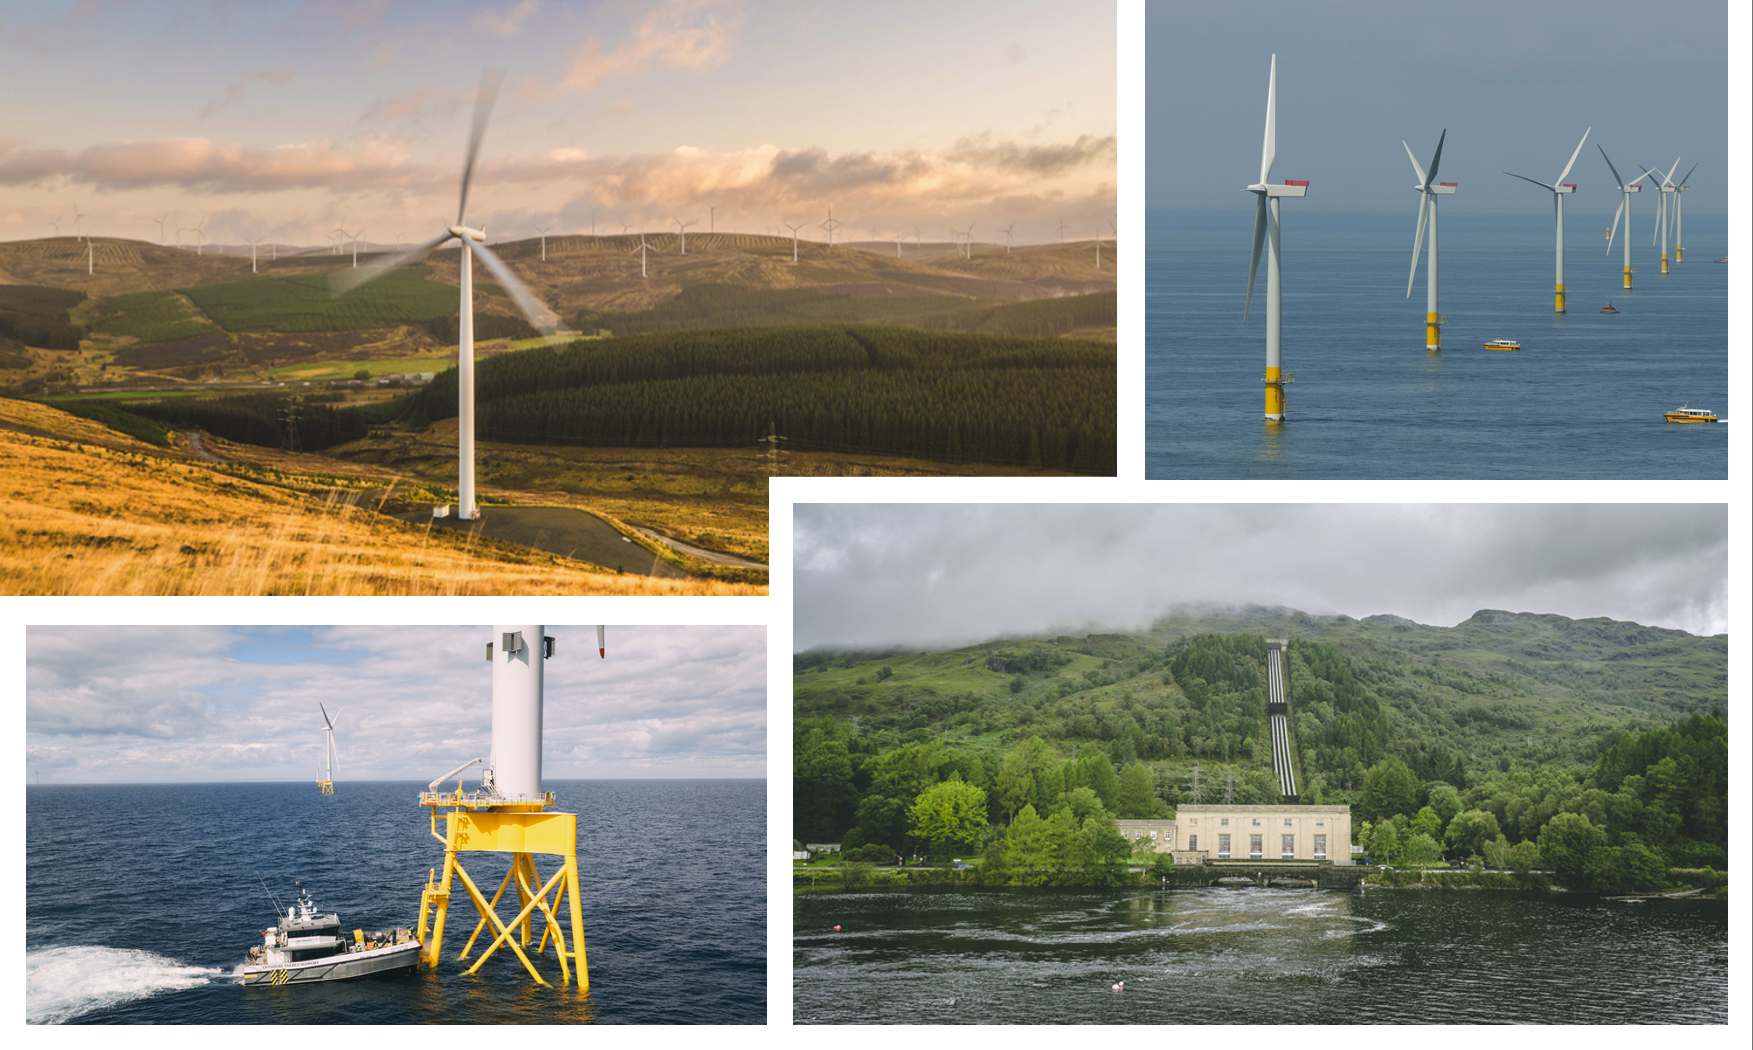
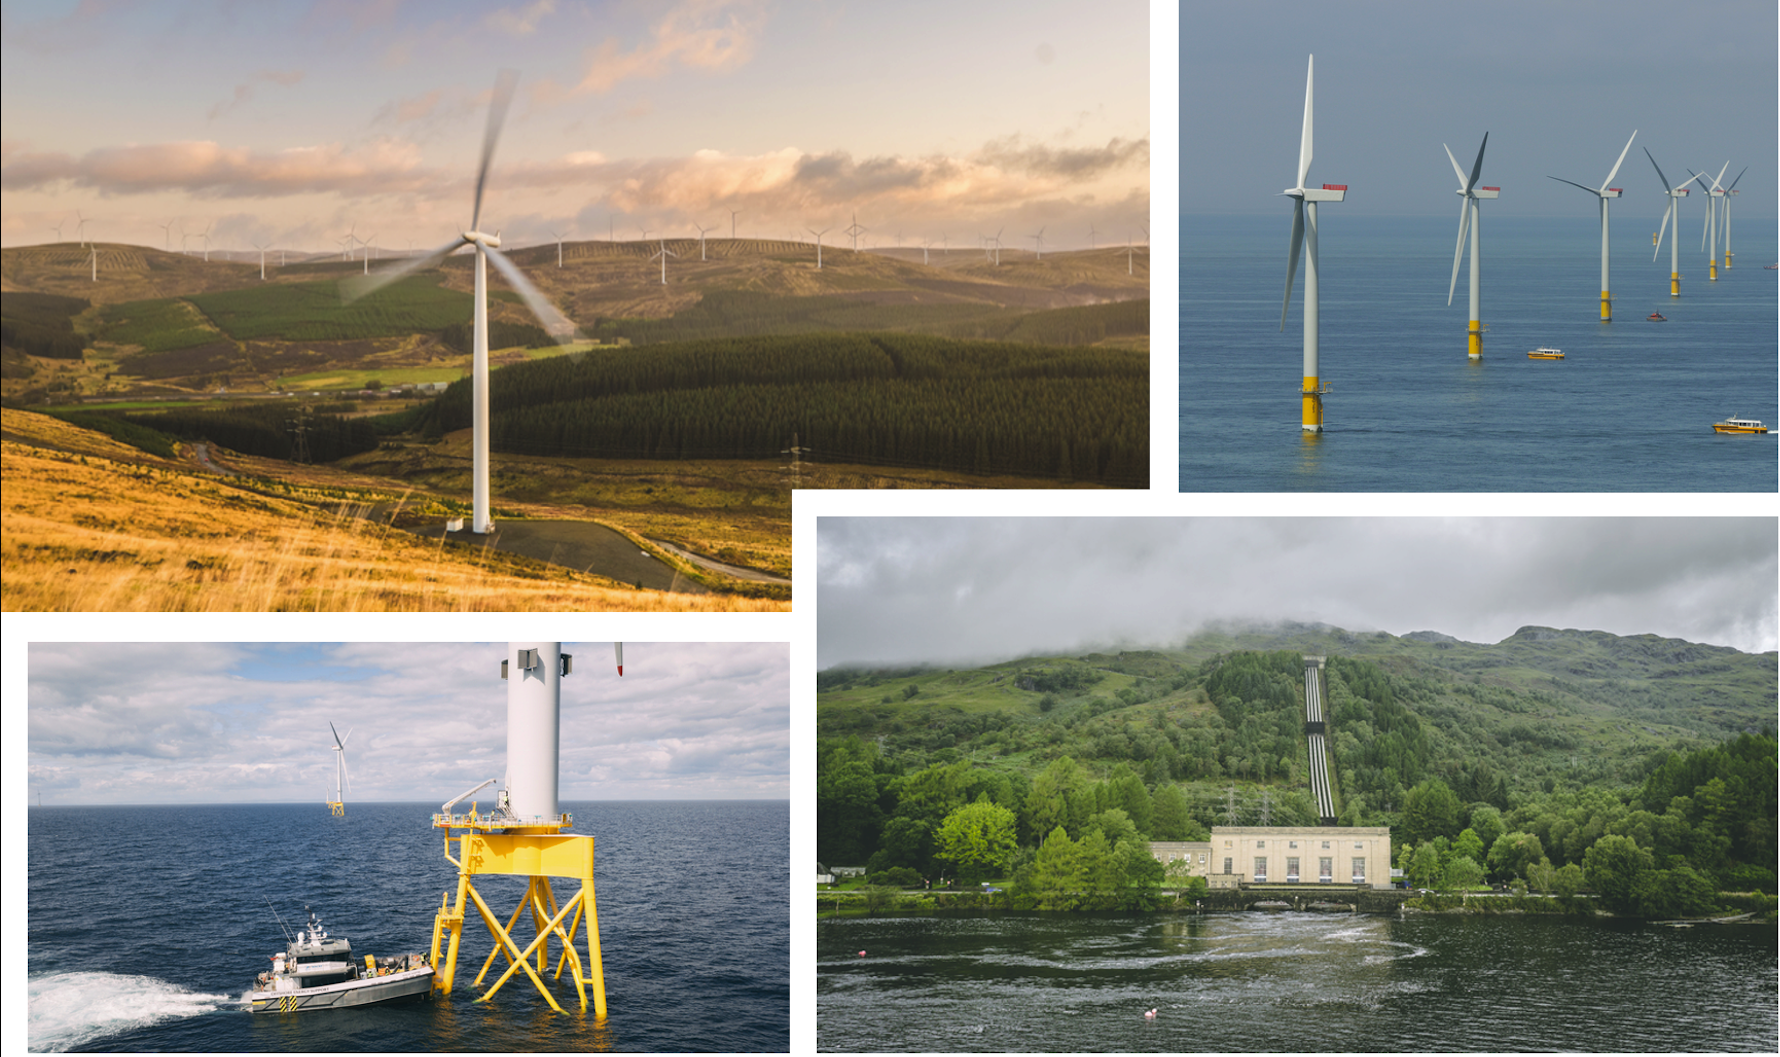
turbine collection updated

diff --git a/ssen/postLogin.html b/ssen/postLogin.html
@@ -124,7 +124,7 @@
                     </p>
                 </div>
                 <img class="wide-image"
-                    src="https://github.com/ActionSustainability/static-content/blob/master/ssen/ManyTurbines.png?raw=true" />
+                    src="https://github.com/ActionSustainability/static-content/blob/master/ssen/turbineCollection.png?raw=true" />
                 <div class="catcher-content-2">
                     <p>
                         We know offshore wind will be the backbone of a net zero power system and that's why
